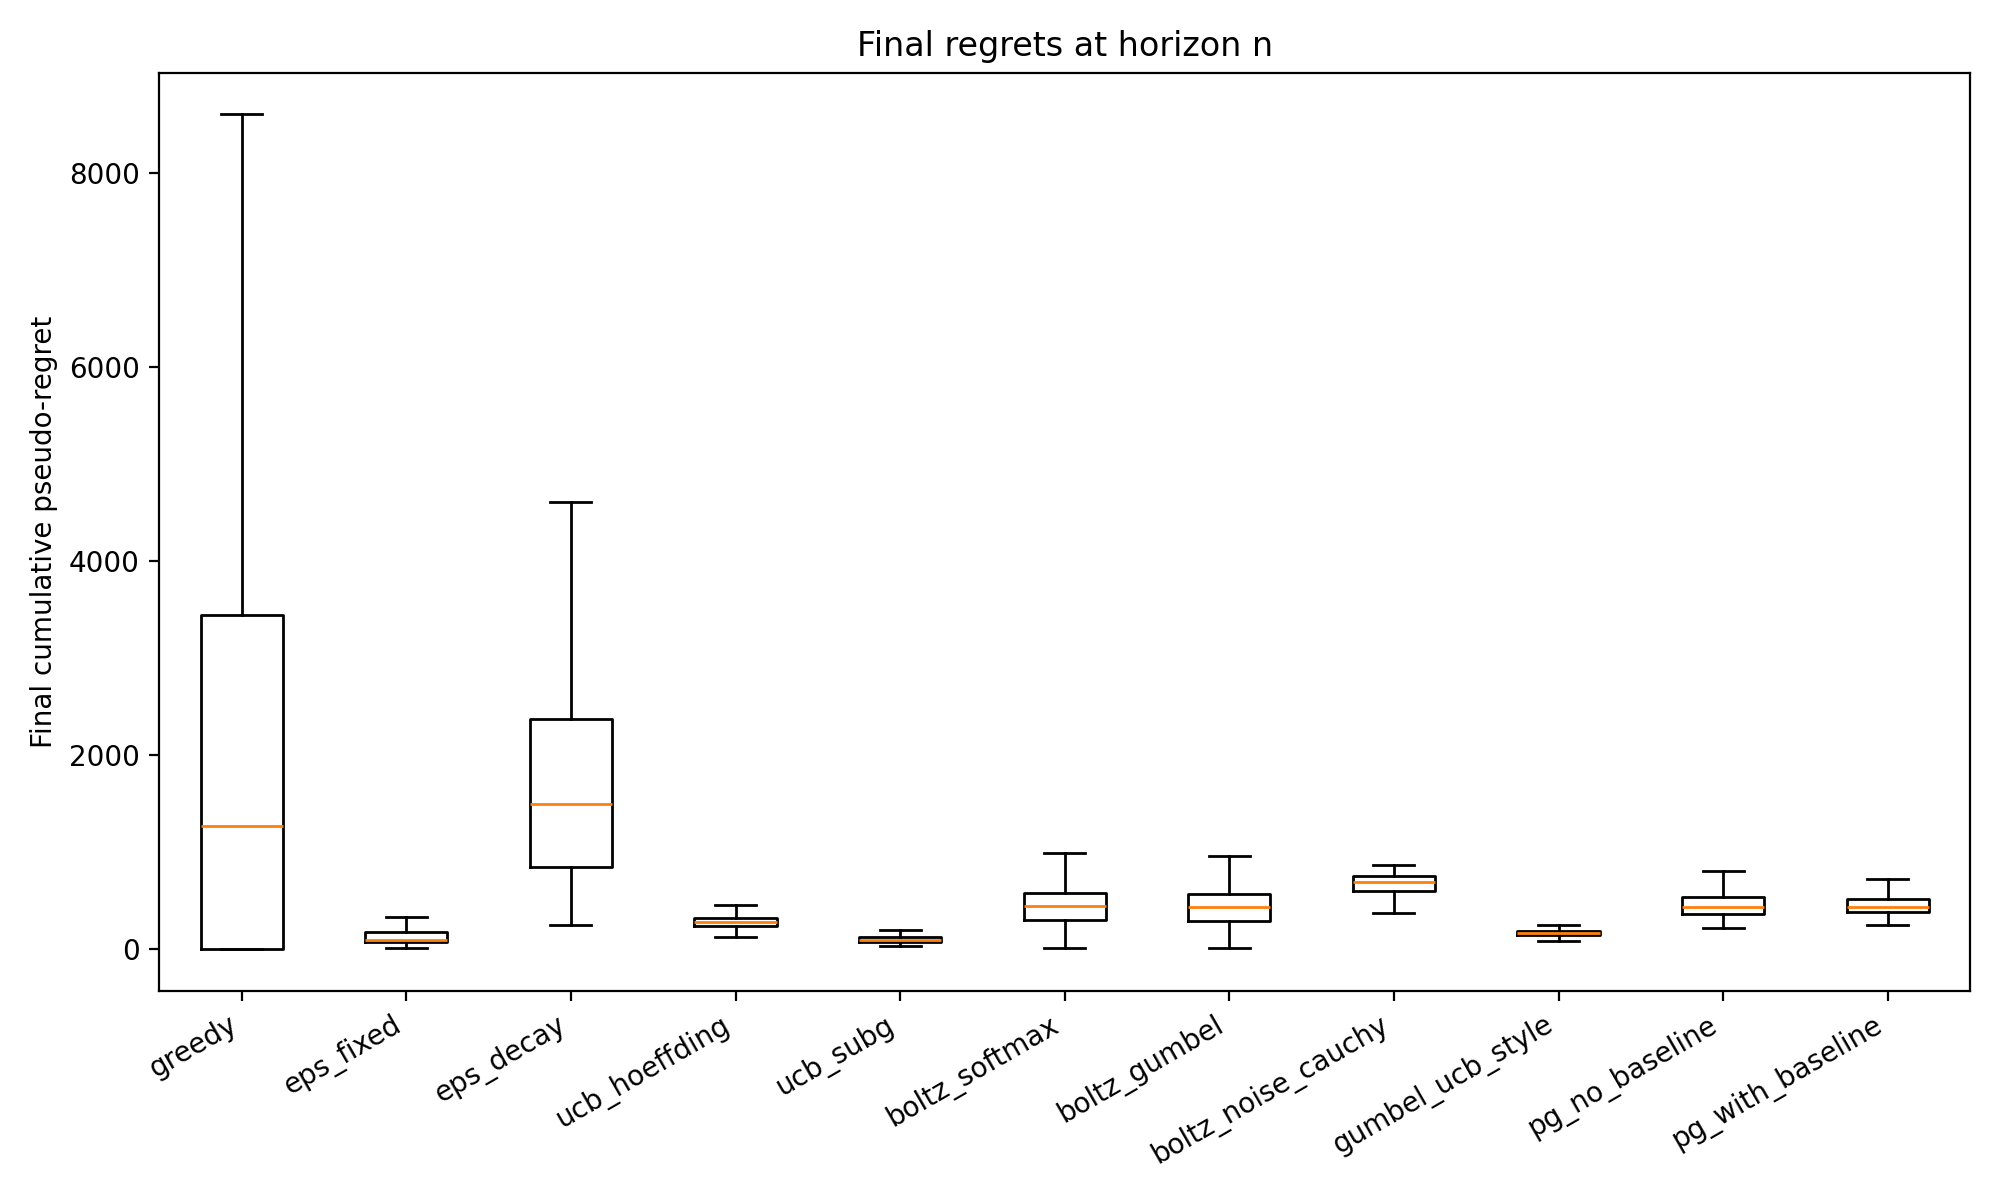
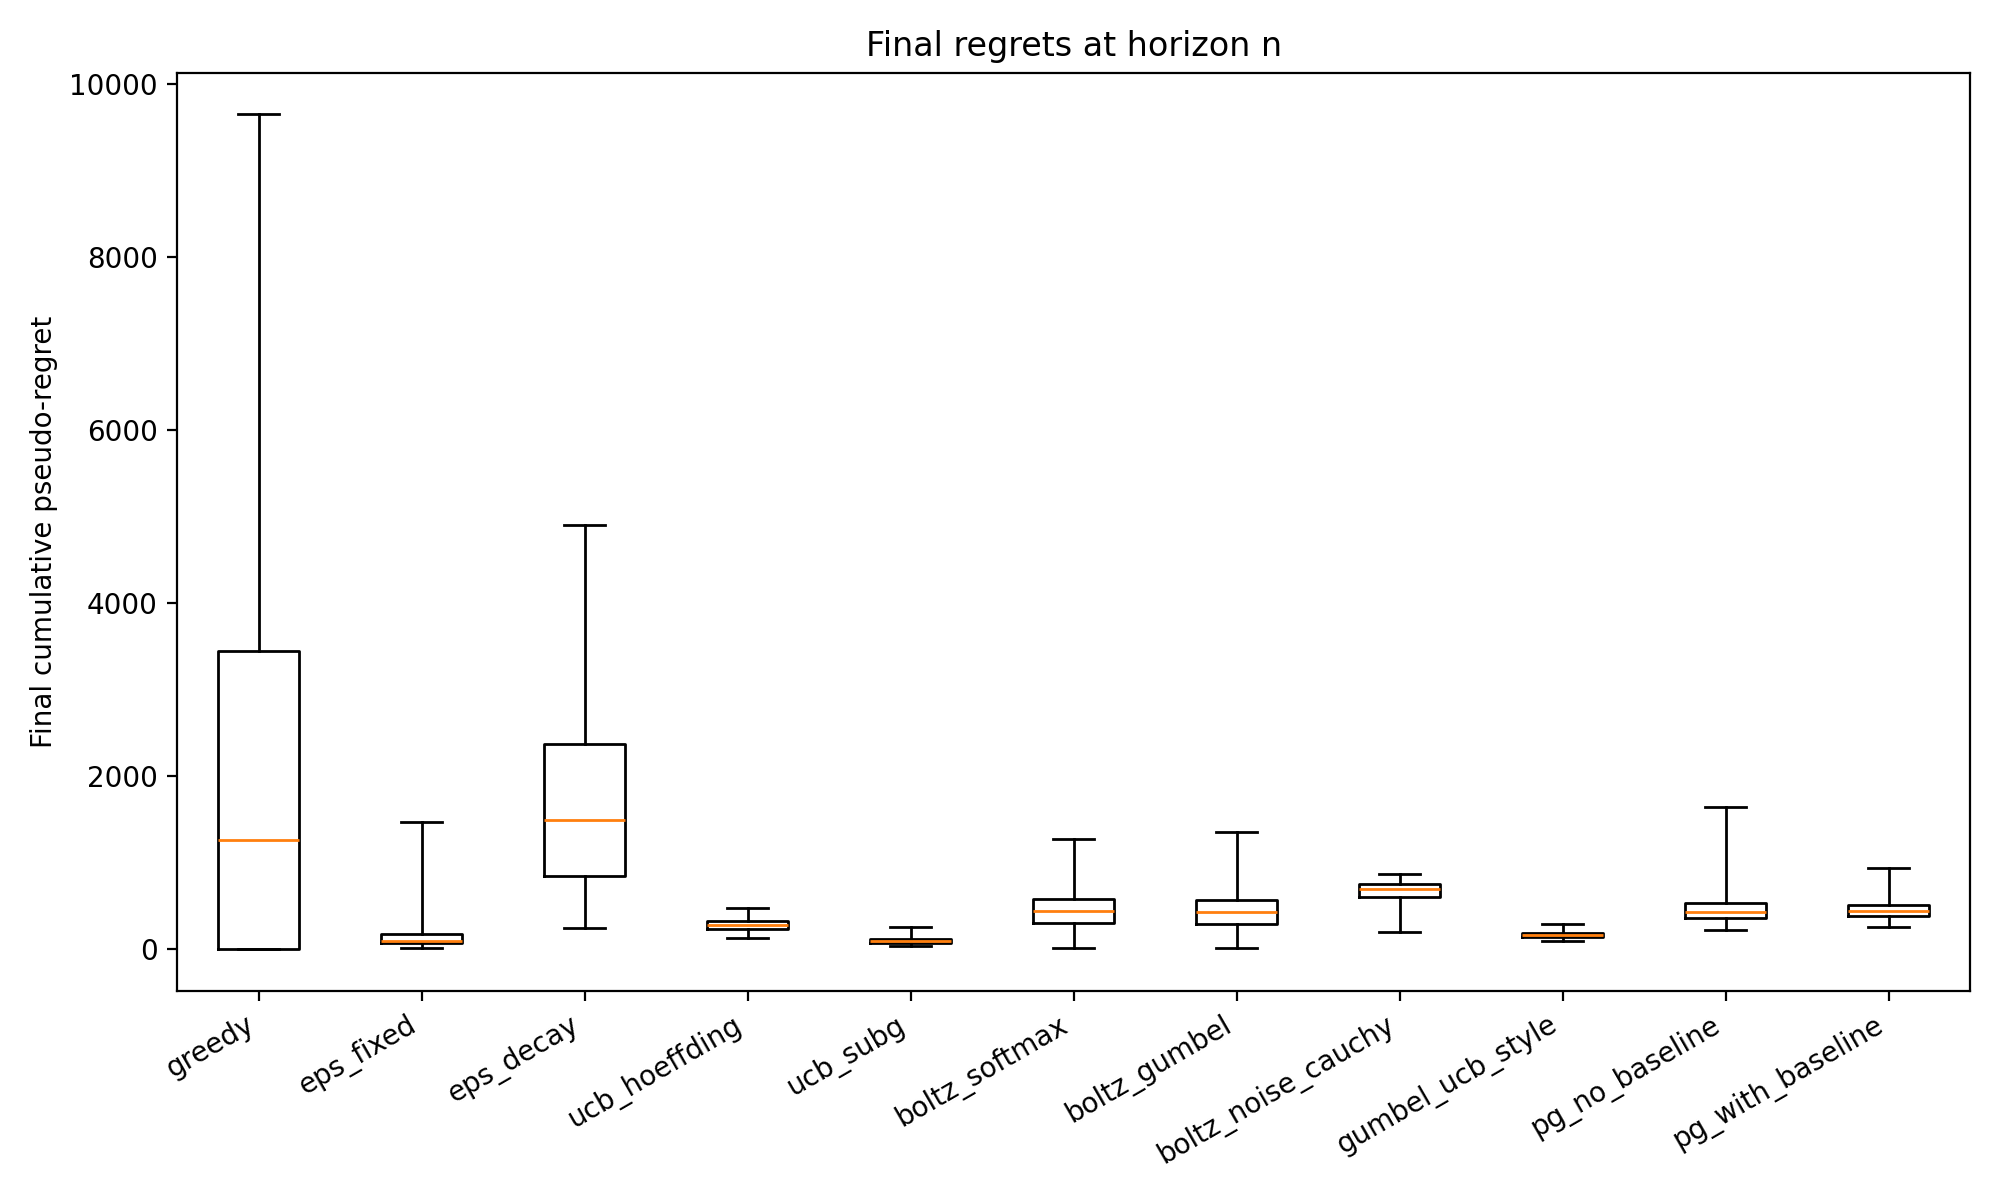
Fix play-probability boxplot display (showfliers, full whiskers)

diff --git a/bandits_project/experiments/ex4_bernoulli_benchmark.py b/bandits_project/experiments/ex4_bernoulli_benchmark.py
@@ -265,7 +265,7 @@ def boxplot_estimates(true_means: np.ndarray, est_means_by_algo: Dict[str, np.nd
             data.append(est[:, a])
 
     plt.figure(figsize=(max(12, 0.35 * len(labels)), 6))
-    plt.boxplot(data, showfliers=False)
+    plt.boxplot(data, showfliers=True, whis=(0, 100))
     plt.xticks(np.arange(1, len(labels) + 1), labels, rotation=90)
     plt.ylabel("Mean / estimate")
     plt.title("True arm means vs algorithm estimates (end of horizon)")
@@ -287,7 +287,7 @@ def boxplot_probs(prob_by_algo: Dict[str, np.ndarray], outpath: str) -> None:
             data.append(probs[:, a])
 
     plt.figure(figsize=(max(12, 0.35 * len(labels)), 6))
-    plt.boxplot(data, showfliers=False)
+    plt.boxplot(data, showfliers=True, whis=(0, 100))
     plt.xticks(np.arange(1, len(labels) + 1), labels, rotation=90)
     plt.ylabel("Empirical play probability")
     plt.title("Play probabilities per arm (empirical, end of horizon)")
@@ -300,7 +300,7 @@ def boxplot_final_regrets(final_regrets: Dict[str, np.ndarray], outpath: str) ->
     labels = list(final_regrets.keys())
     data = [final_regrets[k] for k in labels]
     plt.figure(figsize=(max(10, 0.6 * len(labels)), 6))
-    plt.boxplot(data, labels=labels, showfliers=False)
+    plt.boxplot(data, labels=labels, showfliers=True, whis=(0, 100))
     plt.ylabel("Final cumulative pseudo-regret")
     plt.title("Final regrets at horizon n")
     plt.xticks(rotation=30, ha="right")
